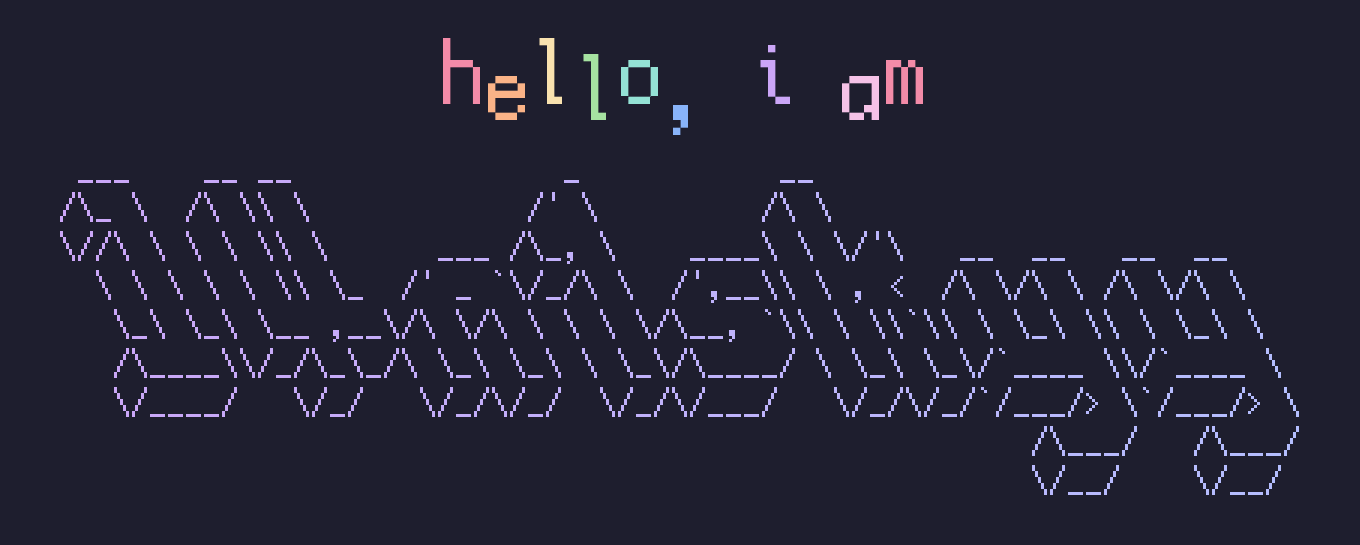
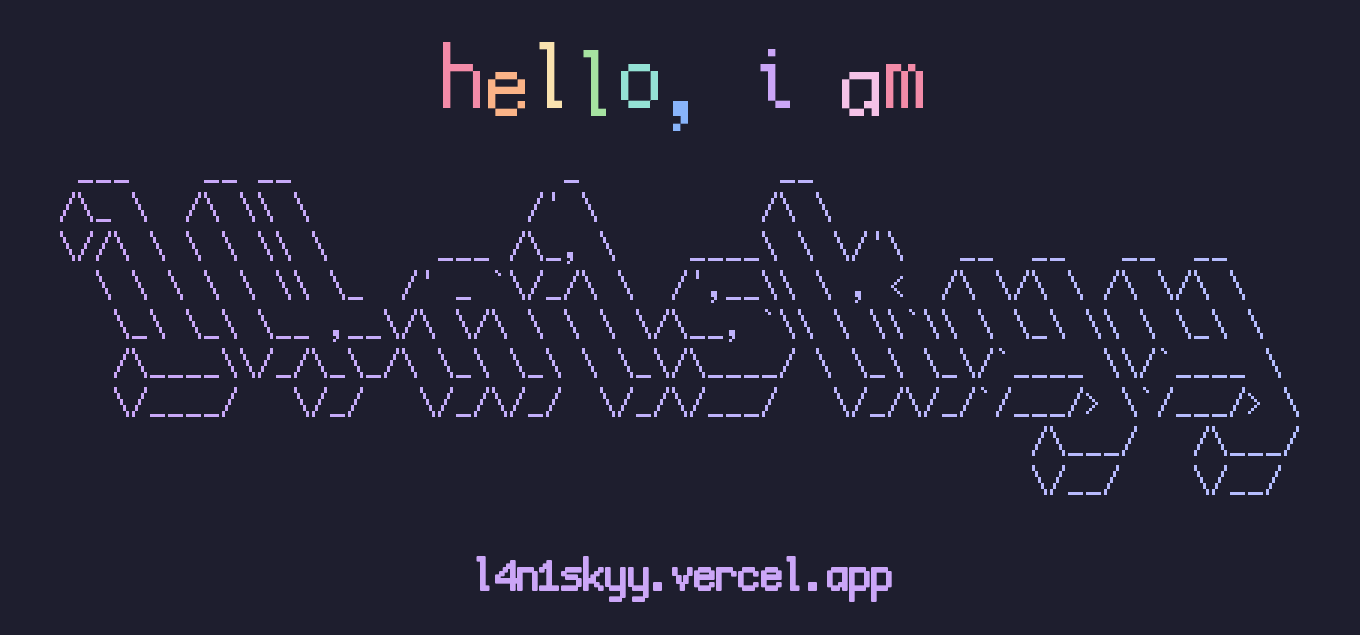
Profile README: gentler hello offset, bold purple website link in the image

diff --git a/README.md b/README.md
@@ -1,7 +1,5 @@
 <p align="center">
-  <img src="hello.png" alt="hello, i am l4n1skyy" width="760">
-</p>
-
-<p align="center">
-  <a href="https://l4n1skyy.vercel.app">https://l4n1skyy.vercel.app</a>
+  <a href="https://l4n1skyy.vercel.app">
+    <img src="hello.png" alt="hello, i am l4n1skyy — l4n1skyy.vercel.app" width="760">
+  </a>
 </p>
